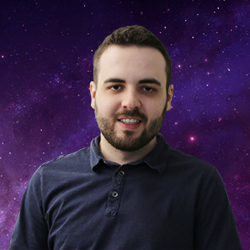
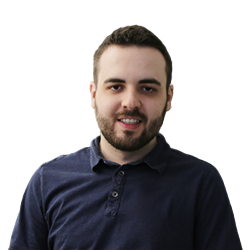
more image fixes

diff --git a/components/HeaderMobile.vue b/components/HeaderMobile.vue
@@ -18,6 +18,8 @@
       </button>
       <img
         src="~/assets/resources/logo/khdev-logo-white.webp"
+        width="96px"
+        height="32px"
         alt="Logo"
         class="w-24 h-auto"
       />
@@ -54,6 +56,8 @@
         <img
           src="~/assets/resources/logo/khdev-logo-white.webp"
           alt="Logo"
+          width="128px"
+          height="42px"
           class="w-32 h-auto mx-auto"
         />
       </span>

diff --git a/components/Sidebar.vue b/components/Sidebar.vue
@@ -9,7 +9,7 @@
       />
       <img
         class="mx-auto my-5 border-4 border-white rounded-full hover:border-green-400"
-        src="~/assets/resources/author/kevin_haeusler.png"
+        src="~/assets/resources/author/kevin_haeusler.webp"
         height="250px"
         width="250px"
         alt="Kevin Haeusler"
